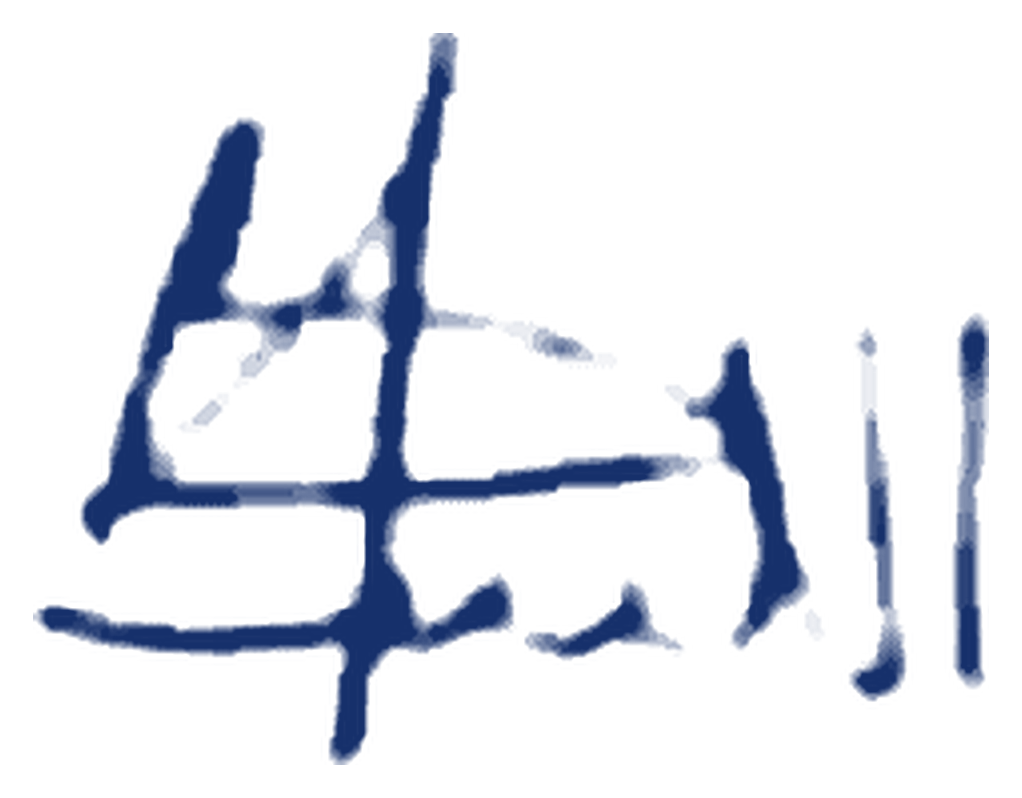
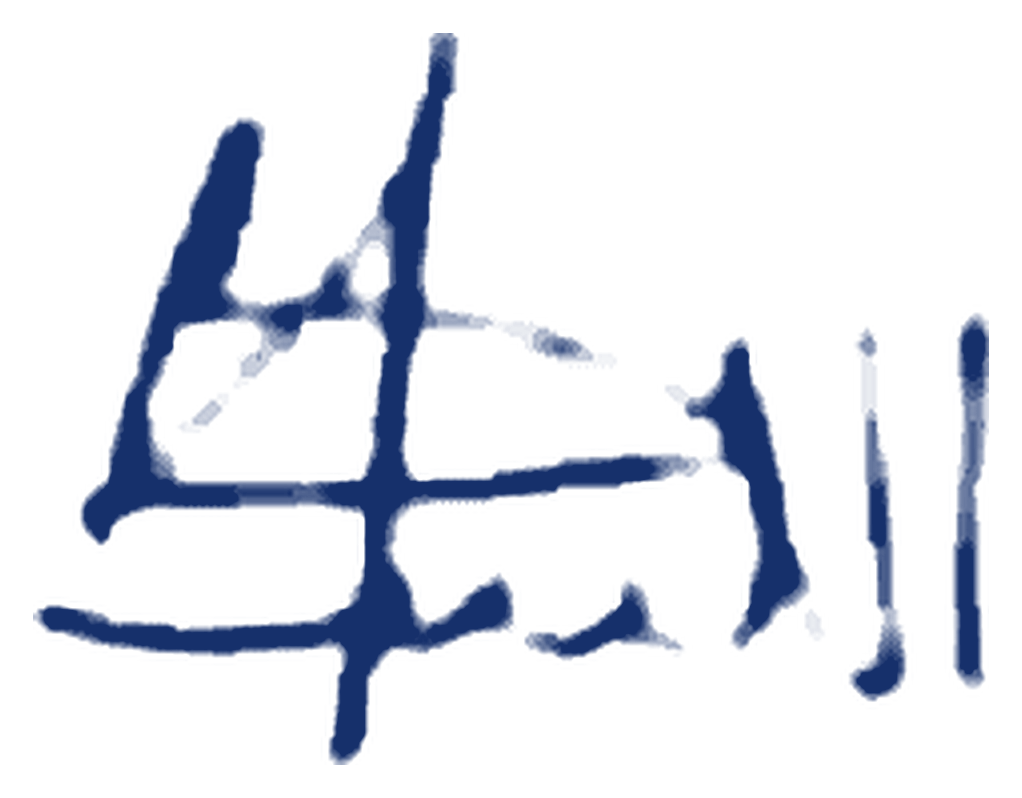
style(signature): size the block to the signature, and give the ink more body
The signature is a compact 1.3:1 mark, so a 200px rule left it looking lost. The
block is now 160px and the image keeps its full 56px height. The ink is also
boosted slightly, because a photographed stroke thins out when it is printed at
card size.

diff --git a/portal_core.html b/portal_core.html
@@ -2429,8 +2429,8 @@ var DEFAULT_REMARKS=[
 ];
 var DEFAULT_SESSION='2026/2027';
 var DEFAULT_TERM='1st Term';
-var DEFAULT_SIGNATURE_IMAGE='proprietor-signature.png?v=2';
-var DEFAULT_SIGNATURE_VERSION=2;
+var DEFAULT_SIGNATURE_IMAGE='proprietor-signature.png?v=3';
+var DEFAULT_SIGNATURE_VERSION=3;
 
 function getActiveSession(){
   if(CONTEXT_EXPLICIT&&SELECTED_SESSION)return SELECTED_SESSION;
@@ -5133,7 +5133,7 @@ function buildCard(sid,term,session,scoreMap,traitMap,feeData,remData,pubSet){
   var isCreative=theme.layout==='creative',isPremium=theme.layout==='premium';
   var P='-webkit-print-color-adjust:exact;print-color-adjust:exact';
 
-  var sigHTML=sig.image?('<img alt="" src="'+sig.image+'" style="max-height:54px;max-width:190px;object-fit:contain;display:block"/>')
+  var sigHTML=sig.image?('<img alt="" src="'+sig.image+'" style="max-height:56px;max-width:150px;object-fit:contain;display:block"/>')
     :sig.name?('<div style="font-family:Dancing Script,cursive;font-size:1.3rem;color:'+NAVY+'">'+sig.name+'</div>'):'';
   var sigTitle=sig.title||'Proprietor';
 
@@ -5293,8 +5293,8 @@ function buildCard(sid,term,session,scoreMap,traitMap,feeData,remData,pubSet){
   if(sec.showSignature){
     var sigArt=sigHTML||'<div style="height:1px"></div>';
     h+='<div style="display:flex;justify-content:flex-start;padding:12px 14px 10px">'
-      +'<div style="width:200px;text-align:center">'
-      +'<div style="height:56px;display:flex;align-items:flex-end;justify-content:center;padding:0 4px 3px">'+sigArt+'</div>'
+      +'<div style="width:160px;text-align:center">'
+      +'<div style="height:58px;display:flex;align-items:flex-end;justify-content:center;padding:0 4px 3px">'+sigArt+'</div>'
       +'<div style="border-top:1.3px solid '+NAVY+';opacity:.6"></div>'
       +'<div style="font-size:7.5pt;font-weight:700;color:'+NAVY+';margin-top:3px;text-transform:uppercase;letter-spacing:.05em">'+sigTitle+'</div>'
       +'</div></div>';
